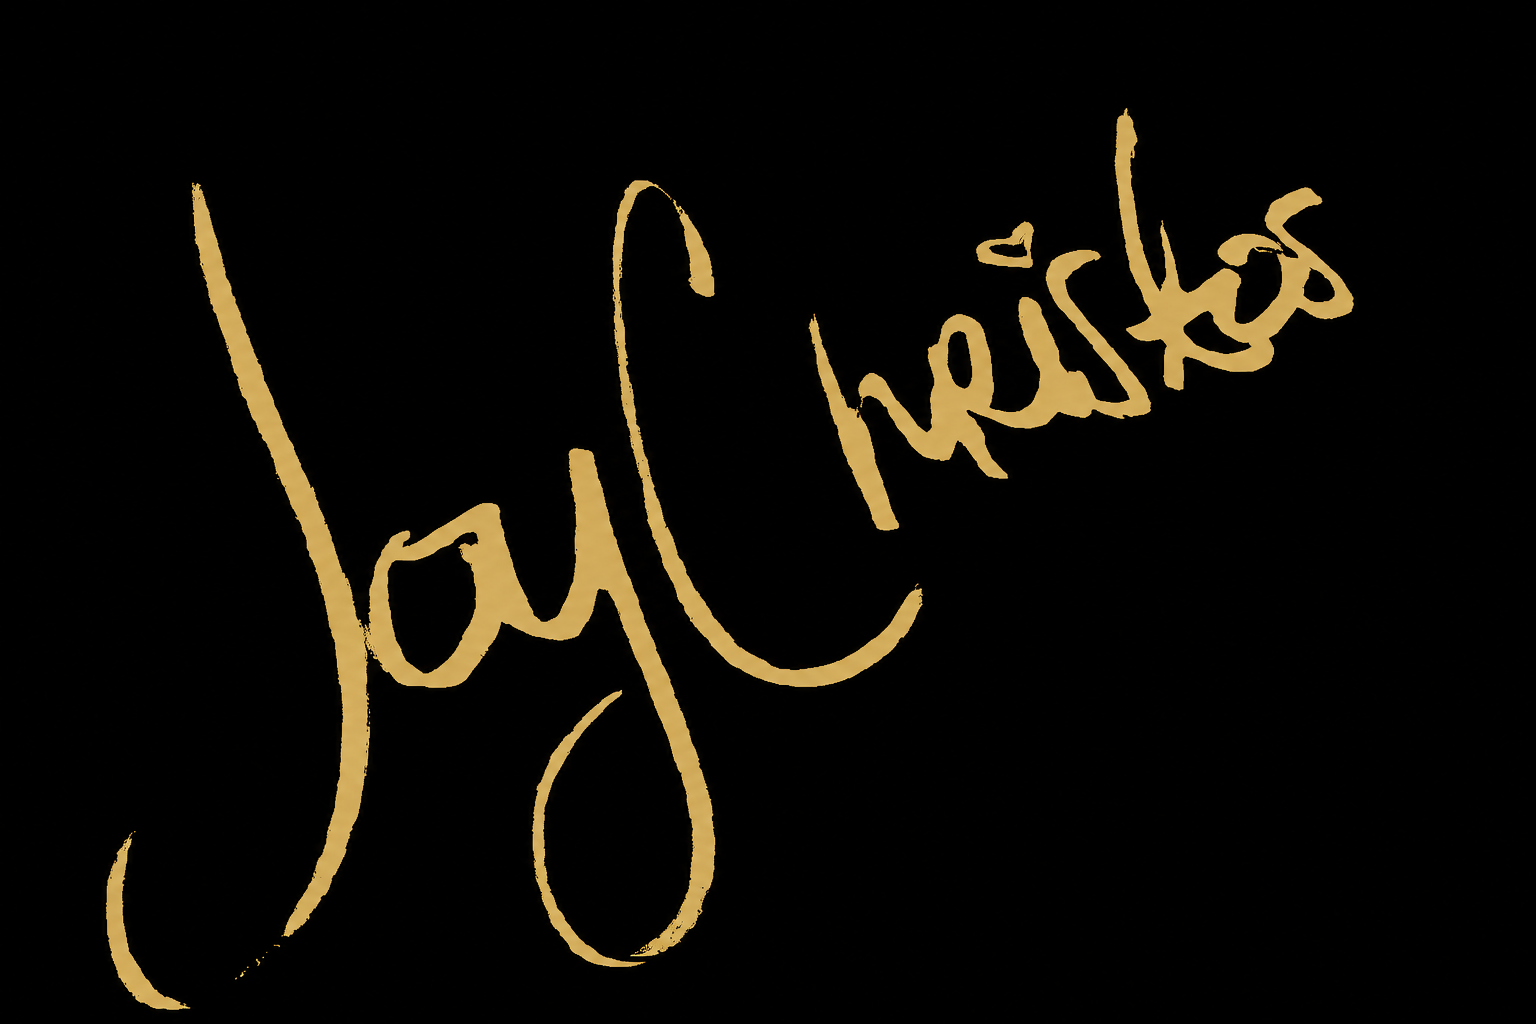
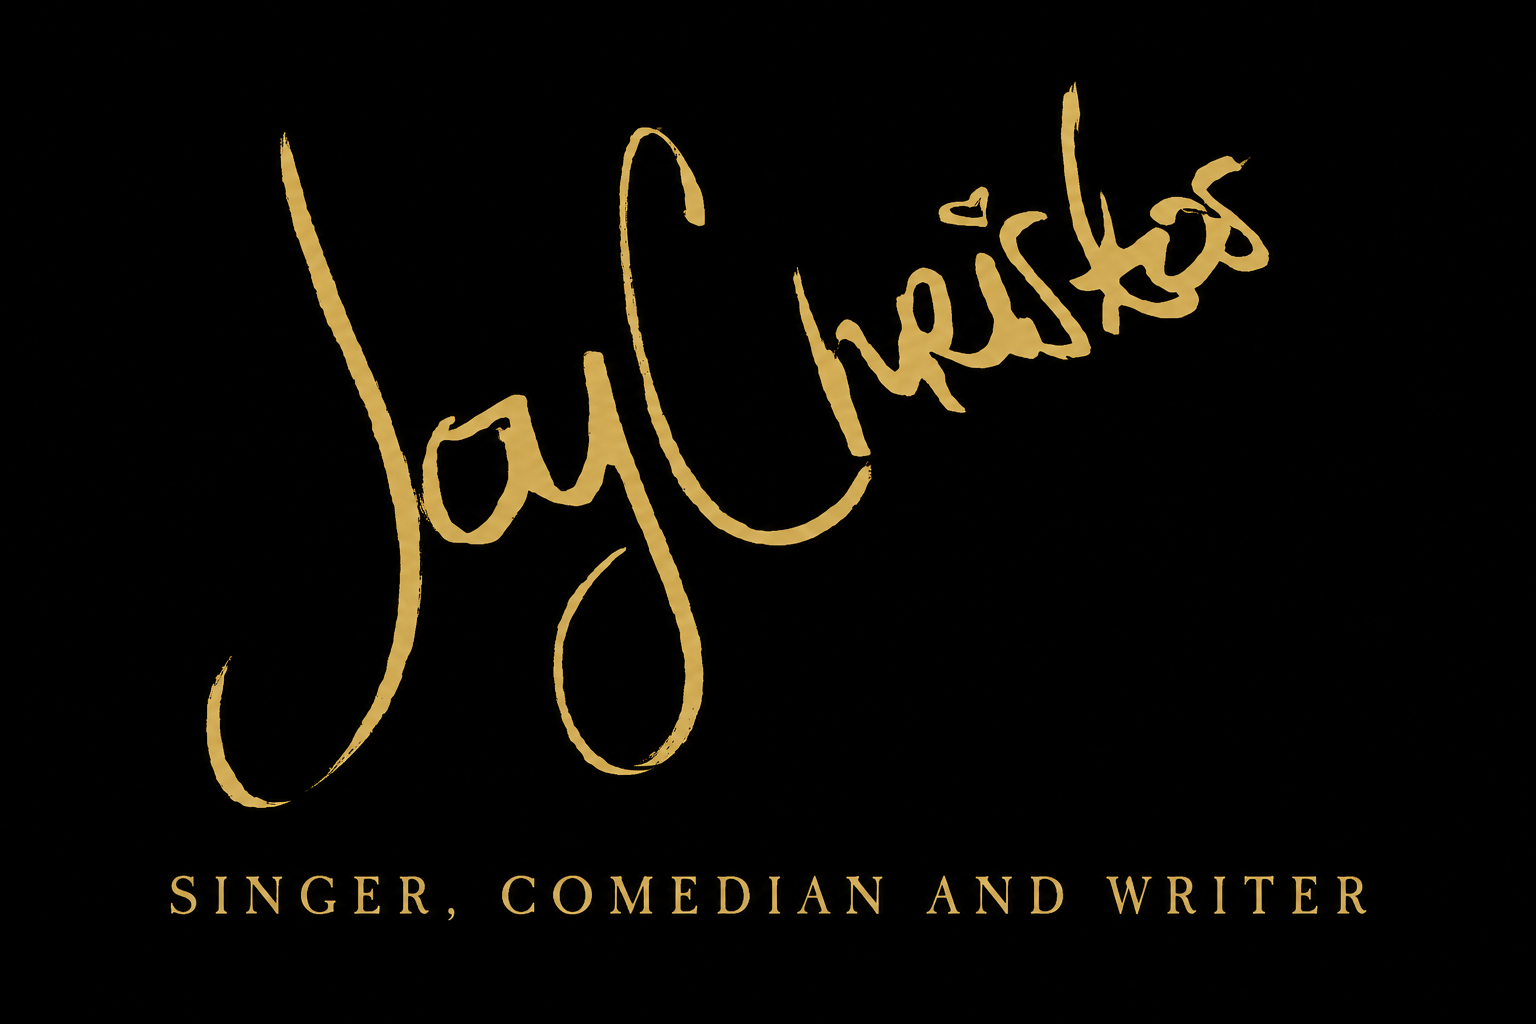
Add creative roles to social thumbnail

diff --git a/index.html b/index.html
@@ -6,7 +6,7 @@
   <meta name="description" content="Official website of Joy Christos, a singer, writer, and actress blending R&amp;B, soul, jazz, pop, gospel, and classical influences.">
   <meta name="author" content="Joy Christos"><meta name="robots" content="index, follow, max-image-preview:large">
   <link rel="canonical" href="https://joychristos.com/">
-  <meta property="og:type" content="website"><meta property="og:site_name" content="Joy Christos"><meta property="og:title" content="Joy Christos | Singer, Writer &amp; Actress"><meta property="og:description" content="Discover Joy Christos—her music, performances, comedy, and latest work."><meta property="og:url" content="https://joychristos.com/"><meta property="og:image" content="https://joychristos.com/assets/social-thumbnail.png"><meta property="og:image:alt" content="Joy Christos gold signature on black">
+  <meta property="og:type" content="website"><meta property="og:site_name" content="Joy Christos"><meta property="og:title" content="Joy Christos | Singer, Writer &amp; Actress"><meta property="og:description" content="Discover Joy Christos—her music, performances, comedy, and latest work."><meta property="og:url" content="https://joychristos.com/"><meta property="og:image" content="https://joychristos.com/assets/social-thumbnail.png"><meta property="og:image:alt" content="Joy Christos — Singer, Comedian and Writer">
   <meta name="twitter:card" content="summary_large_image"><meta name="twitter:title" content="Joy Christos | Singer, Writer &amp; Actress"><meta name="twitter:description" content="Discover Joy Christos—her music, performances, comedy, and latest work."><meta name="twitter:image" content="https://joychristos.com/assets/social-thumbnail.png">
   <script type="application/ld+json">{"@context":"https://schema.org","@type":"Person","name":"Joy Christos","url":"https://joychristos.com/","image":"https://joychristos.com/assets/gallery-01-web.jpg","jobTitle":["Singer","Writer","Actress"],"description":"Joy Christos is a singer, writer, and actress from Harrisburg, Pennsylvania.","alumniOf":{"@type":"EducationalOrganization","name":"1500 Sound Academy"},"award":"Hershey Theatre Apollo Award for Outstanding Lead Actress"}</script>
   <script>try{const skip=sessionStorage.getItem('joySkipNextIntro')==='true';sessionStorage.removeItem('joySkipNextIntro');document.documentElement.classList.add(skip?'skip-intro':'is-loading')}catch(e){document.documentElement.classList.add('is-loading')}</script>

diff --git a/about.html b/about.html
@@ -6,7 +6,7 @@
   <meta name="description" content="Meet Joy Christos, a Pennsylvania-born singer, writer, actress, NBC's The Voice contestant, Apollo Award recipient, and 1500 Sound Academy graduate.">
   <meta name="author" content="Joy Christos"><meta name="robots" content="index, follow, max-image-preview:large">
   <link rel="canonical" href="https://joychristos.com/about.html">
-  <meta property="og:type" content="profile"><meta property="og:site_name" content="Joy Christos"><meta property="og:title" content="About Joy Christos"><meta property="og:description" content="Learn about singer, writer, and actress Joy Christos and her creative journey."><meta property="og:url" content="https://joychristos.com/about.html"><meta property="og:image" content="https://joychristos.com/assets/social-thumbnail.png"><meta property="og:image:alt" content="Joy Christos gold signature on black">
+  <meta property="og:type" content="profile"><meta property="og:site_name" content="Joy Christos"><meta property="og:title" content="About Joy Christos"><meta property="og:description" content="Learn about singer, writer, and actress Joy Christos and her creative journey."><meta property="og:url" content="https://joychristos.com/about.html"><meta property="og:image" content="https://joychristos.com/assets/social-thumbnail.png"><meta property="og:image:alt" content="Joy Christos — Singer, Comedian and Writer">
   <meta name="twitter:card" content="summary_large_image"><meta name="twitter:title" content="About Joy Christos"><meta name="twitter:description" content="Learn about singer, writer, and actress Joy Christos and her creative journey."><meta name="twitter:image" content="https://joychristos.com/assets/social-thumbnail.png">
   <link rel="icon" type="image/png" href="assets/signature-ink-tight.png"><link rel="apple-touch-icon" href="assets/signature-ink-tight.png">
   <link rel="preconnect" href="https://fonts.googleapis.com"><link rel="preconnect" href="https://fonts.gstatic.com" crossorigin>

diff --git a/contact.html b/contact.html
@@ -6,7 +6,7 @@
   <meta name="description" content="Contact Joy Christos for bookings, acting roles, music projects, performances, and creative collaborations.">
   <meta name="author" content="Joy Christos"><meta name="robots" content="index, follow, max-image-preview:large">
   <link rel="canonical" href="https://joychristos.com/contact.html">
-  <meta property="og:type" content="website"><meta property="og:site_name" content="Joy Christos"><meta property="og:title" content="Contact &amp; Book Joy Christos"><meta property="og:description" content="Get in touch with Joy Christos for bookings and creative collaborations."><meta property="og:url" content="https://joychristos.com/contact.html"><meta property="og:image" content="https://joychristos.com/assets/social-thumbnail.png"><meta property="og:image:alt" content="Joy Christos gold signature on black">
+  <meta property="og:type" content="website"><meta property="og:site_name" content="Joy Christos"><meta property="og:title" content="Contact &amp; Book Joy Christos"><meta property="og:description" content="Get in touch with Joy Christos for bookings and creative collaborations."><meta property="og:url" content="https://joychristos.com/contact.html"><meta property="og:image" content="https://joychristos.com/assets/social-thumbnail.png"><meta property="og:image:alt" content="Joy Christos — Singer, Comedian and Writer">
   <meta name="twitter:card" content="summary_large_image"><meta name="twitter:title" content="Contact &amp; Book Joy Christos"><meta name="twitter:description" content="Get in touch with Joy Christos for bookings and creative collaborations."><meta name="twitter:image" content="https://joychristos.com/assets/social-thumbnail.png">
   <link rel="icon" type="image/png" href="assets/signature-ink-tight.png"><link rel="apple-touch-icon" href="assets/signature-ink-tight.png">
   <link rel="preconnect" href="https://fonts.googleapis.com"><link rel="preconnect" href="https://fonts.gstatic.com" crossorigin>
